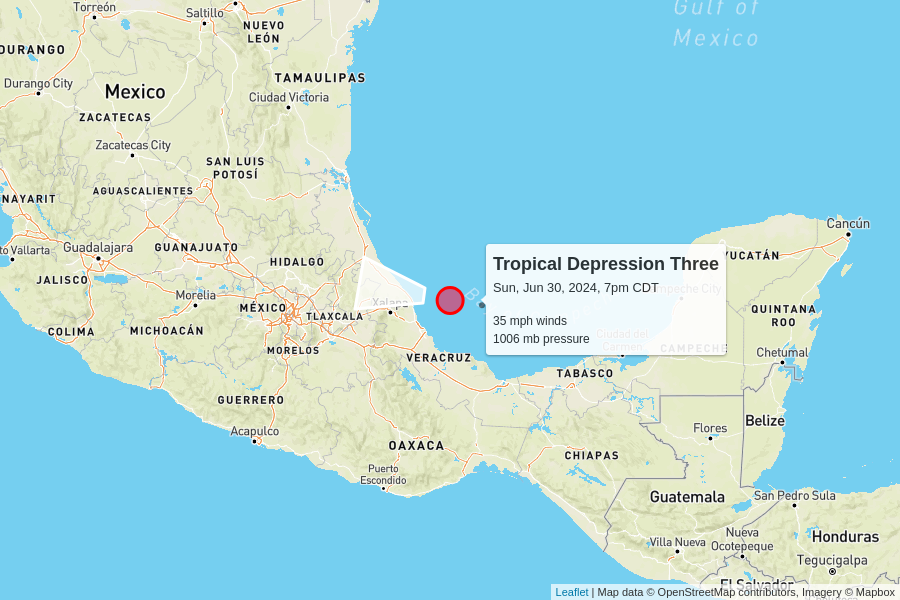
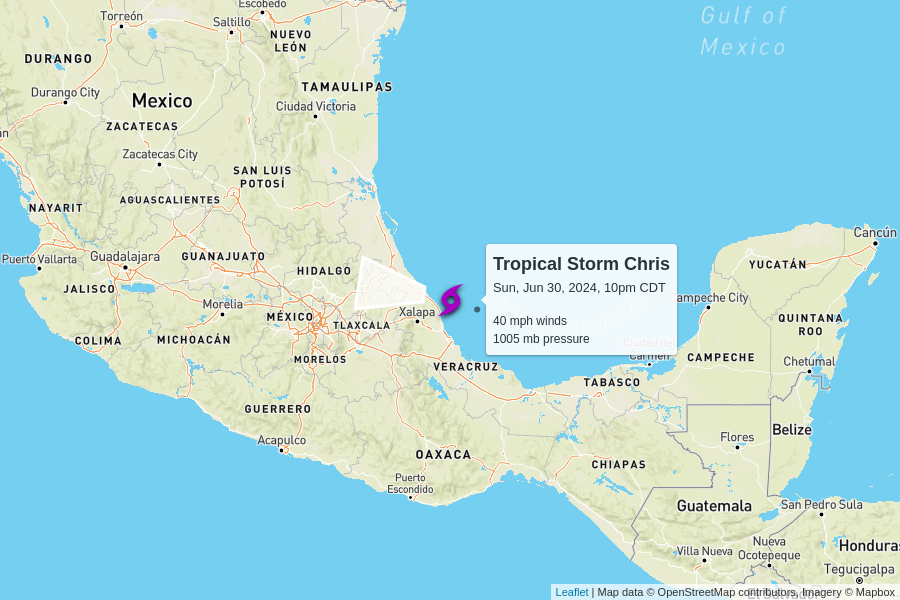
automatic update

Changed region(s): [[0.0, 0.0, 1.0, 1.0], [0.7467, 0.0, 0.8711, 0.09]]

diff --git a/docs/index.html b/docs/index.html
@@ -104,7 +104,7 @@
         <td colspan="6" class="storm category-4" >
           <h2>
             Hurricane Beryl - Category 4
-            <p class="updated">last updated <span data-time>2024-07-01T00:00:00.000Z</span></p>
+            <p class="updated">last updated <span data-time>2024-07-01T03:00:00.000Z</span></p>
           </h2>
         </td>
       </tr>
@@ -120,11 +120,11 @@
       <tr>
         <td class="spacer"></td>
         <td>130 mph<br>0 mph since last update</td>
-        <td>958 mb<br>-2 mb since last update</td>
+        <td>959 mb<br>+1 mb since last update</td>
         <td>
-          18 mph to the west-northwest
+          20 mph to the west
           <br/>
-          <span style="display: inline-block; font-size: 1.5em; transform: rotate(285deg);">↑</span>
+          <span style="display: inline-block; font-size: 1.5em; transform: rotate(280deg);">↑</span>
         </td>
         <td><a href="https://raw.githubusercontent.com/mgwalker/atlantic-hurricanes/main/data/csv/AL022024.csv">AL022024.csv</a></td>
         <td><a href="https://www.nhc.noaa.gov/archive/2024/BERYL.shtml?">NHC advisories</a></td>
@@ -147,8 +147,8 @@
       <tr>
         <td colspan="6" class="storm category-0" >
           <h2>
-            Tropical Depression Three
-            <p class="updated">last updated <span data-time>2024-07-01T00:00:00.000Z</span></p>
+            Tropical Storm Chris
+            <p class="updated">last updated <span data-time>2024-07-01T03:00:00.000Z</span></p>
           </h2>
         </td>
       </tr>
@@ -163,15 +163,15 @@
       </tr>
       <tr>
         <td class="spacer"></td>
-        <td>35 mph<br>0 mph since last update</td>
-        <td>1006 mb<br>0 mb since last update</td>
+        <td>40 mph<br>+5 mph since last update</td>
+        <td>1005 mb<br>-1 mb since last update</td>
         <td>
-          12 mph to the west
+          13 mph to the west
           <br/>
           <span style="display: inline-block; font-size: 1.5em; transform: rotate(280deg);">↑</span>
         </td>
         <td><a href="https://raw.githubusercontent.com/mgwalker/atlantic-hurricanes/main/data/csv/AL032024.csv">AL032024.csv</a></td>
-        <td><a href="https://www.nhc.noaa.gov/archive/2024/THREE.shtml?">NHC advisories</a></td>
+        <td><a href="https://www.nhc.noaa.gov/archive/2024/CHRIS.shtml?">NHC advisories</a></td>
       </tr>
       <tr id="storm_AL032024" >
         <td class="spacer">
